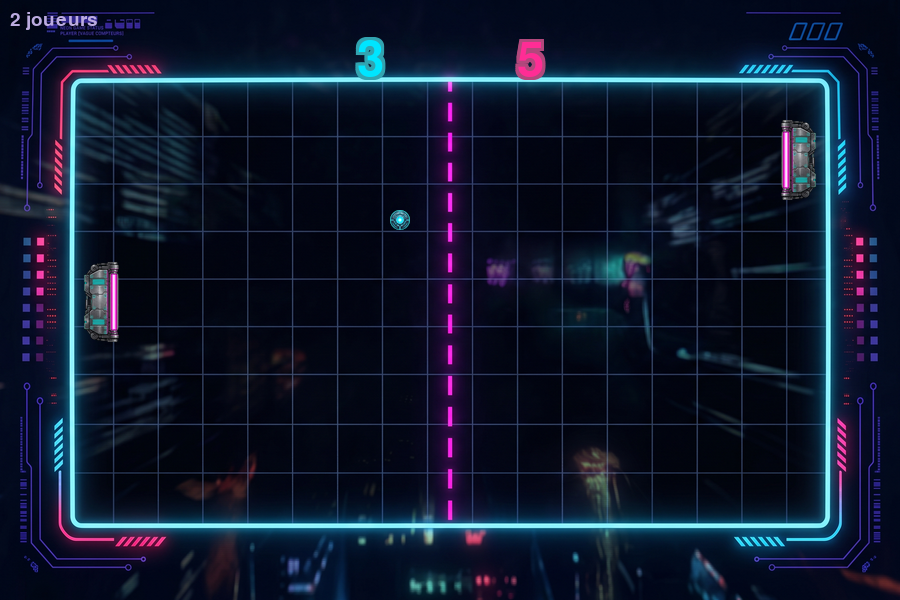
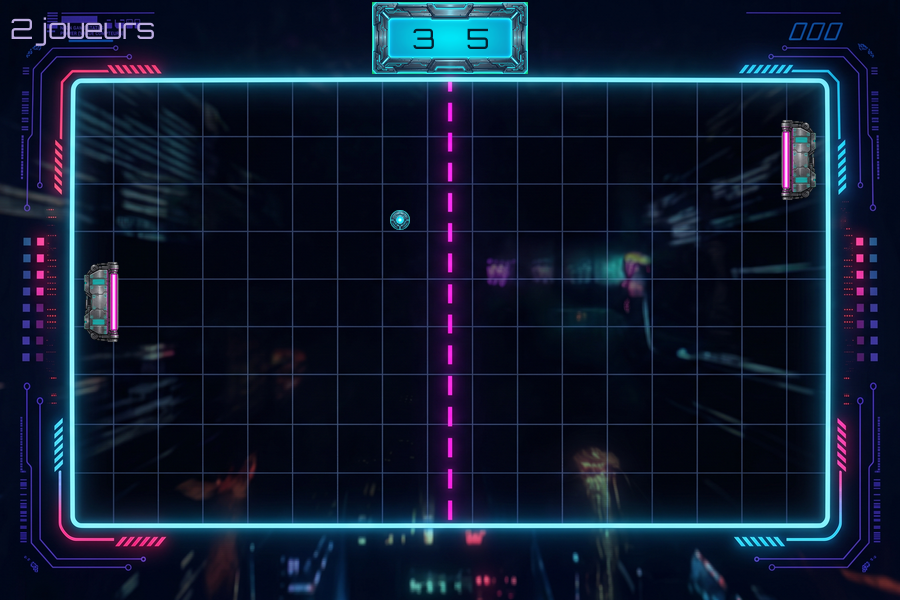
fix(tools): render_preview a jour (signature GameOverScene) + captures regenerees

Changed region(s): [[0.3733, 0.0, 0.6222, 0.15], [0.0, 0.03, 0.1867, 0.09]]

diff --git a/scripts/render_preview.py b/scripts/render_preview.py
@@ -39,7 +39,7 @@ def main(out_dir="docs/screenshots"):
     pygame.image.save(app.screen, os.path.join(out_dir, "game.png"))
 
     # Écran de fin de partie.
-    app.set_scene(GameOverScene(app, "left", "1p", "difficile"))
+    app.set_scene(GameOverScene(app, "left", "1p"))
     app.scene.draw(app.screen)
     pygame.image.save(app.screen, os.path.join(out_dir, "gameover.png"))
 

diff --git a/tests/test_render_preview.py b/tests/test_render_preview.py
@@ -1,0 +1,10 @@
+"""Test de l'outil d'aperçus : il doit produire les trois écrans."""
+
+from scripts.render_preview import main
+
+
+def test_render_preview_generates_expected_screens(tmp_path):
+    main(str(tmp_path))
+
+    for name in ("menu.png", "game.png", "gameover.png"):
+        assert (tmp_path / name).exists(), f"{name} manquant"
